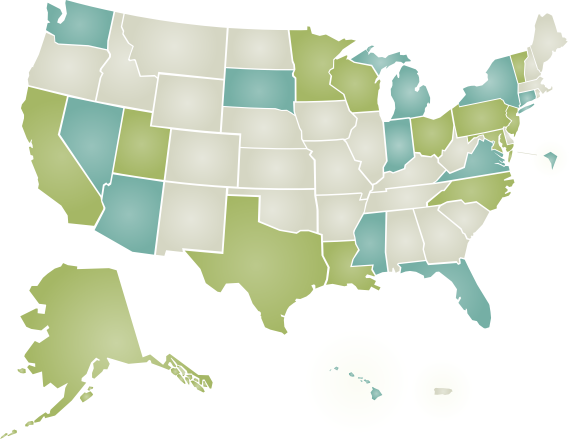
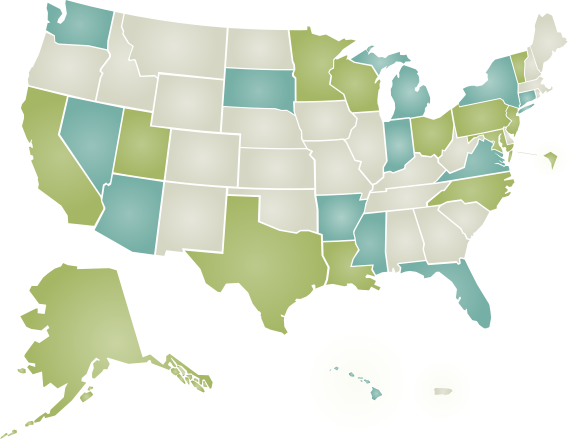
Arkansas experimental (DC ready)

Changed region(s): [[0.5368, 0.4442, 0.6561, 0.5626], [0.9544, 0.3257, 0.9842, 0.385]]

diff --git a/site/templates/status.html b/site/templates/status.html
@@ -5,7 +5,7 @@
 {% block content %}
 <h2>Project Status</h2>
 
-<p> As of May 5th, 2011 we have data for 25 states and the District of Columbia.  </p> 
+<p> As of May 31st, 2011 we have data for 26 states and the District of Columbia.  </p> 
 
 <p> States are denoted as either "ready" or "experimental" depending on how
 reliable the source data is and how thoroughly we've vetted and cleaned up the
@@ -13,7 +13,7 @@ scraped data.  We do our best to provide high quality data for all states,
 but you are more likely to find incomplete data where we haven't been able to
 identify a source or done manual reconciliation of ids when using experimental
 states.
-<p>
+</p>
 
 <p>If you are curious about the specific status of state data check below
 for any <a href="#state-specific">state specific issues</a> or check out the
@@ -37,8 +37,8 @@ New Jersey, North Carolina, Ohio, Pennsylvania, Texas, Utah, Vermont, and Wiscon
 
 <h4> Experimental States </h4>
 <p> Experimental states (in blue) are those that we support but have not yet promoted to ready
-status.  Arizona, Connecticut, Florida, Hawaii, Indiana, Michigan, Mississippi, Nevada, New York,
-South Dakota, Virginia, Washington and Washington DC fall in this category.</p>
+status.  Arkansas, Arizona, Connecticut, Florida, Hawaii, Indiana, Michigan, Mississippi, Nevada,
+New York, South Dakota, Virginia, Washington and Washington DC fall in this category.</p>
 
 <h4> Unsupported States </h4>
 <p> The remaining states (gray on the map)  are not yet in our API.

diff --git a/site/templates/index.html b/site/templates/index.html
@@ -37,7 +37,7 @@
                         Open States Project Status
                     </h3>
                     <p>
-                        We currently have data available for 25 states (and DC).  If your state isn't available yet learn how to <a href="/contributing/">contribute.</a>
+                        We currently have data available for 26 states (and DC).  If your state isn't available yet learn how to <a href="/contributing/">contribute.</a>
                     </p>
                 </div>
                 <div class="map-key">
